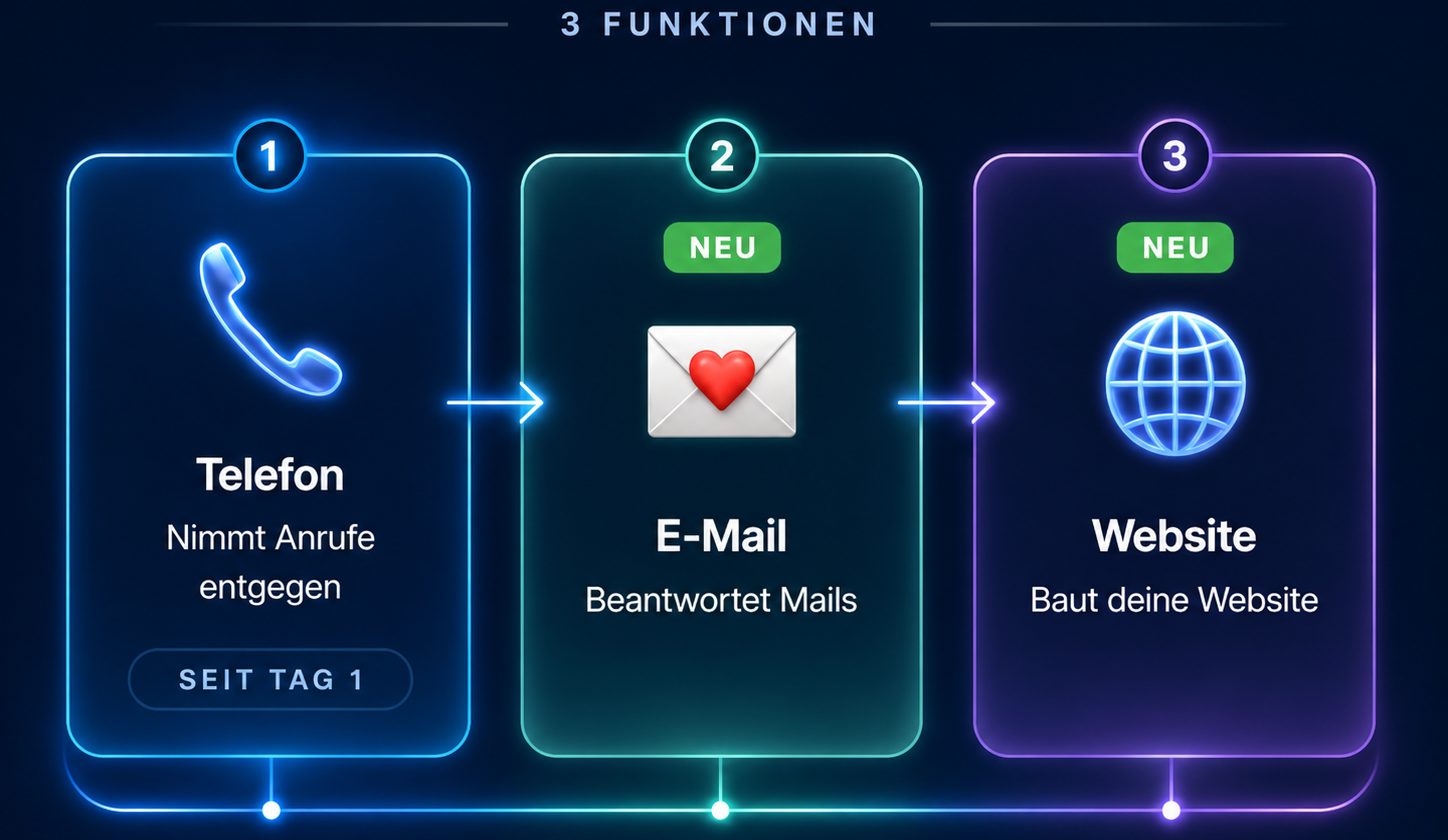
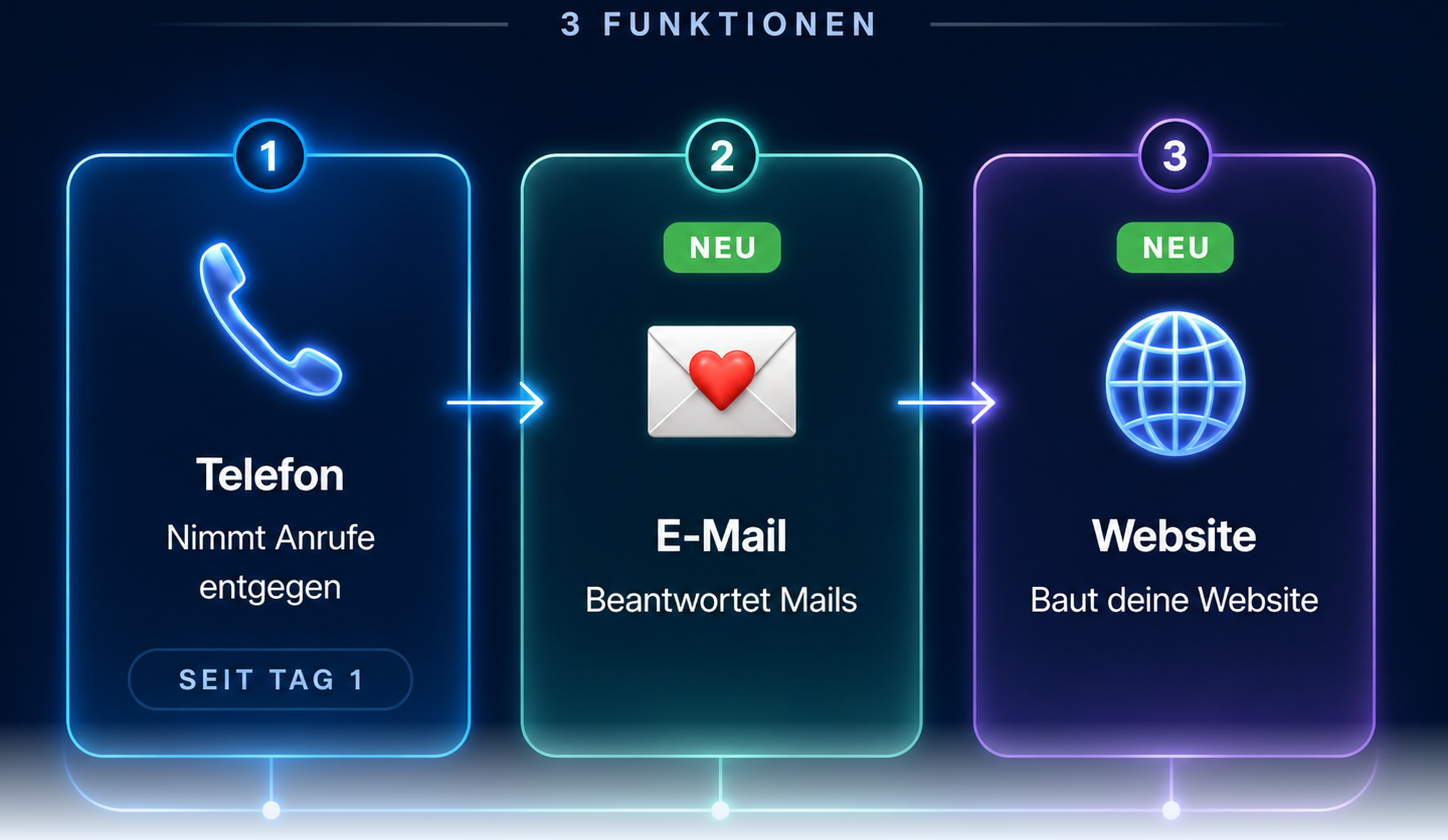
Fade feature cards bottom into background, remove gradient bridge row

Changed region(s): [[0.0, 0.8667, 1.0, 1.0]]

diff --git a/newsletter-leads-website-v1.html b/newsletter-leads-website-v1.html
@@ -87,14 +87,9 @@
 
           <!-- FEATURE CARDS -->
           <tr>
-            <td style="background:#010d24; padding:0 28px 0 28px; line-height:0; font-size:0;">
+            <td style="background:#eaf3fc; padding:0 28px 0 28px; line-height:0; font-size:0;">
               <img src="https://raw.githubusercontent.com/jesko-maker/hallopetra-referral/main/03_feature_flow_3_funktionen.png" width="624" alt="3 Funktionen: Telefon, E-Mail, Website." style="width:100%; max-width:624px; height:auto; display:block; border-radius:16px;">
             </td>
-          </tr>
-
-          <!-- Gradient Bridge -->
-          <tr>
-            <td style="background:linear-gradient(180deg,#010d24 0%,#3a6080 50%,#eaf3fc 100%); height:20px; padding:0; line-height:0; font-size:0;">&#8203;</td>
           </tr>
 
           <!-- E-Mail Card -->
